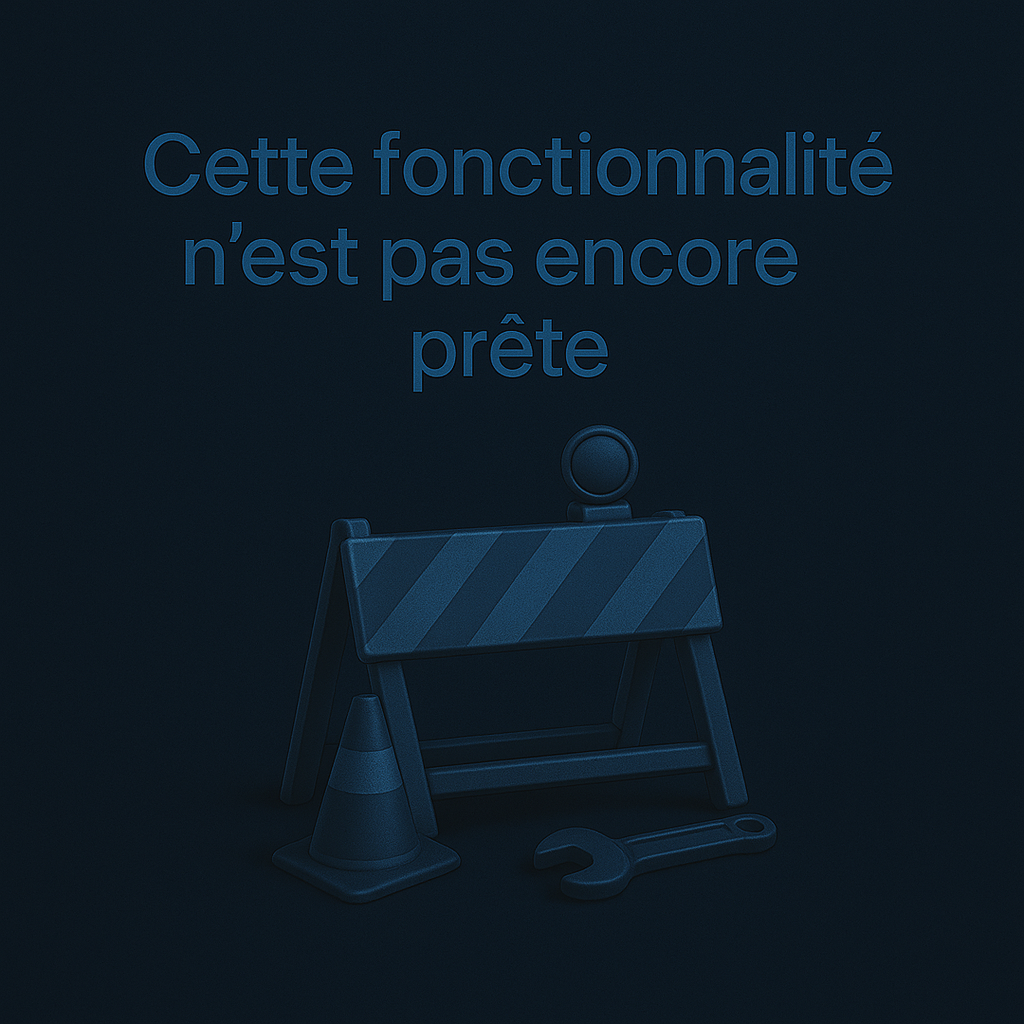
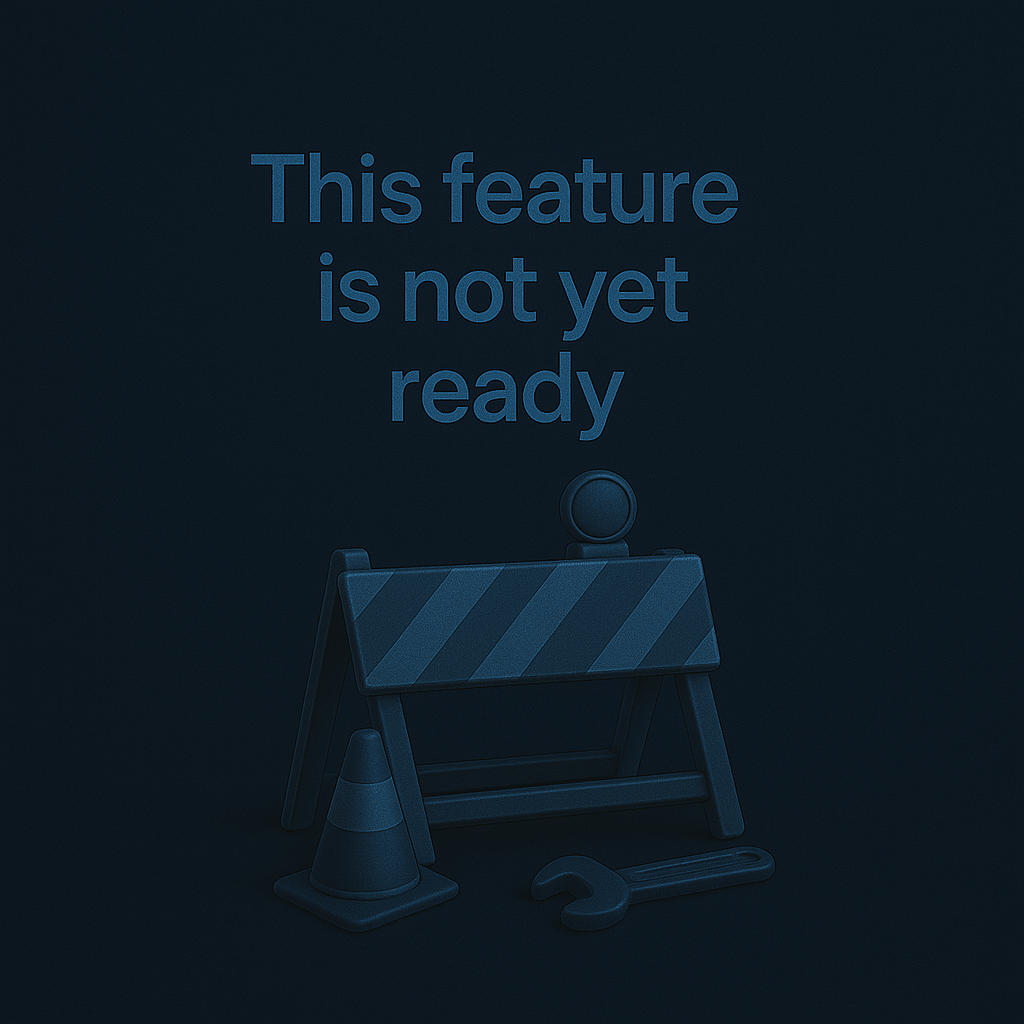
Add edge store credentials to env.sample and implement coming soon feature
- Updated `env.sample` to include `EDGE_STORE_ACCESS_KEY` and `EDGE_STORE_SECRET_KEY`.
- Replaced dashboard content with `FeatureComingSoon` component to indicate upcoming features.
- Introduced `FeatureComingSoon` component with motivational quotes and a progress simulation.
- Added a new `coming-soon.png` image for visual representation of the feature.

Changed region(s): [[0.125, 0.125, 0.875, 0.9062]]

diff --git a/src/components/coming-soon.tsx b/src/components/coming-soon.tsx
@@ -1,0 +1,118 @@
+"use client"
+
+import { useState, useEffect } from "react"
+import Link from "next/link"
+import { Dumbbell, ArrowRight, Construction, Timer } from "lucide-react"
+import { Button } from "@/components/ui/button"
+import { motion } from "framer-motion"
+import SideImageForm from "@/features/auth/side-image-form"
+
+export default function FeatureComingSoon() {
+    const [mounted, setMounted] = useState(false)
+    const [progress, setProgress] = useState(0)
+    const [currentQuote, setCurrentQuote] = useState(0)
+
+    const motivationalQuotes = [
+        {
+            text: "Discipline is the bridge between goals and accomplishment.",
+            author: "Jim Rohn",
+        },
+        {
+            text: "Success is not final, failure is not fatal: it is the courage to continue that counts.",
+            author: "Winston Churchill",
+        },
+        {
+            text: "The pain you feel today will be the strength you feel tomorrow.",
+            author: "Arnold Schwarzenegger",
+        },
+        {
+            text: "The body achieves what the mind believes.",
+            author: "Napoleon Hill",
+        },
+        {
+            text: "Don't count the days, make the days count.",
+            author: "Muhammad Ali",
+        },
+    ]
+
+    useEffect(() => {
+        setMounted(true)
+
+        // Simulate progress
+        const interval = setInterval(() => {
+            setProgress((prev) => {
+                const newProgress = prev + Math.random() * 0.5
+                return newProgress > 75 ? 75 : newProgress // Cap at 75%
+            })
+        }, 1000)
+
+        return () => {
+            clearInterval(interval)
+        }
+    }, [])
+
+    if (!mounted) return null
+
+    return (
+        <div className="login-container flex min-h-screen bg-black overflow-hidden">
+            {/* Side image (left side) */}
+            <SideImageForm
+                backgroundImage={'url("/coming-soon.png")'}
+                motivationalQuotes={motivationalQuotes}
+                currentQuote={currentQuote}
+                setCurrentQuote={setCurrentQuote}
+            />
+
+            {/* Content (right side) */}
+            <div className="w-full lg:w-1/2 flex items-center justify-center p-8">
+                <div className="max-w-md w-full">
+                    <div className="flex flex-col items-center mb-10 transition-all duration-300">
+                        <div className="flex items-center gap-2 font-bold text-2xl mb-4 logo-glow">
+                            <Dumbbell className="h-7 w-7 text-gray-400" />
+                            <span className="bg-clip-text text-transparent bg-gradient-to-r from-gray-200 to-gray-500">
+                ShadowFit
+              </span>
+                        </div>
+                        <h1 className="text-3xl font-bold mb-2 text-center">This feature is not ready yet</h1>
+                        <p className="text-zinc-400 text-center">
+                            Our team is actively working on this feature to provide you with an exceptional experience.
+                        </p>
+                    </div>
+
+                    {/* Progress section */}
+                    <div className="mb-10">
+                        <div className="flex items-center justify-between mb-2">
+              <span className="text-gray-400 flex items-center">
+                <Construction className="w-4 h-4 mr-2" />
+                Progress
+              </span>
+                            <span className="text-gray-400">{Math.floor(progress)}%</span>
+                        </div>
+                        <div className="w-full h-2 bg-gray-800 rounded-full overflow-hidden">
+                            <motion.div
+                                className="h-full bg-gradient-to-r from-gray-600 to-gray-400"
+                                initial={{ width: "0%" }}
+                                animate={{ width: `${progress}%` }}
+                                transition={{ duration: 0.5 }}
+                            ></motion.div>
+                        </div>
+                    </div>
+
+                    {/* Estimated time */}
+                    <div className="flex items-center justify-center text-gray-500 mb-10">
+                        <Timer className="w-4 h-4 mr-2" />
+                        <span>Estimated time: 2-3 weeks</span>
+                    </div>
+
+                    {/* Return button */}
+                    <Button className="w-full bg-gray-800 hover:bg-gray-700 text-white group px-6 py-6 h-auto" asChild>
+                        <Link href="/">
+                            Return to home
+                            <ArrowRight className="ml-2 h-4 w-4 transition-transform group-hover:translate-x-1" />
+                        </Link>
+                    </Button>
+                </div>
+            </div>
+        </div>
+    )
+}

diff --git a/src/app/(protected)/dashboard/page.tsx b/src/app/(protected)/dashboard/page.tsx
@@ -1,11 +1,10 @@
 import React from 'react';
+import FeatureComingSoon from "@/components/coming-soon";
 
 
 const HomePage = () => {
     return (
-        <div className="container mx-auto py-10">
-            <h1 className="text-3xl font-bold">Dashboard</h1>
-        </div>
+        <FeatureComingSoon/>
     );
 };
 
